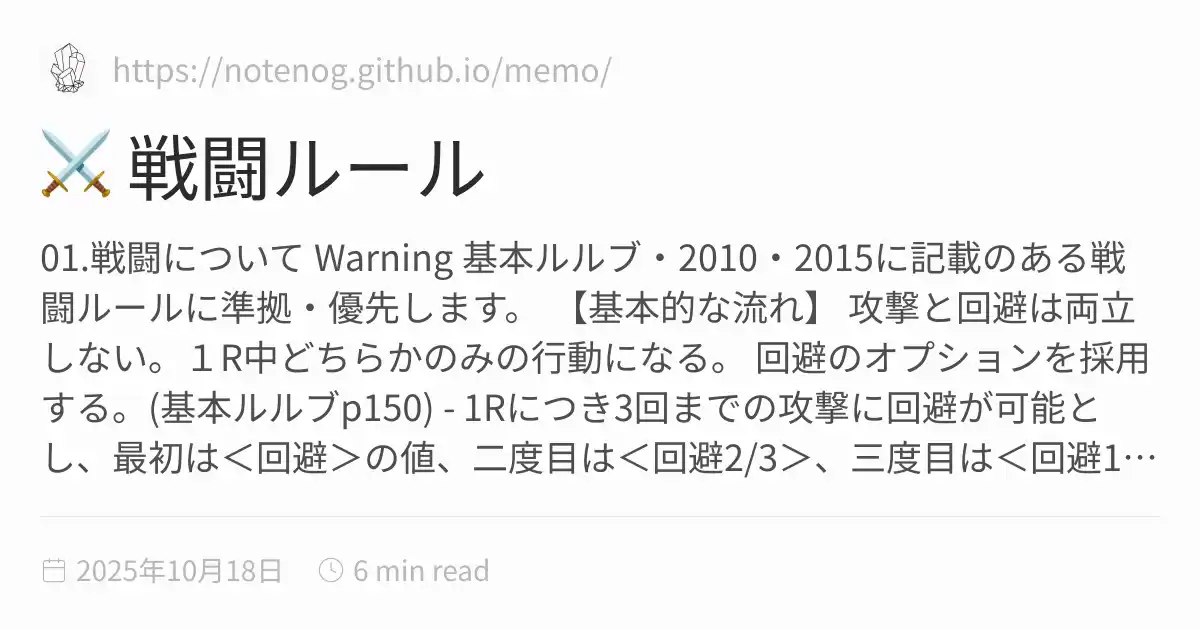
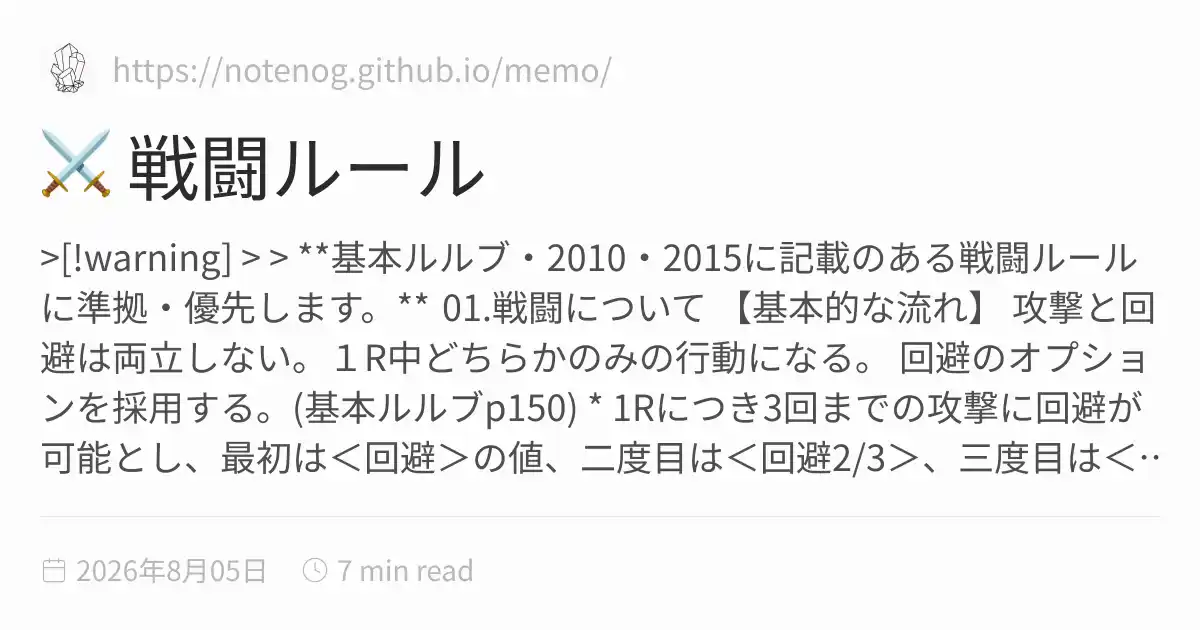
記事を更新

Changed region(s): [[0.0308, 0.5429, 0.9558, 0.754], [0.0308, 0.3619, 0.9558, 0.5127], [0.1233, 0.8746, 0.4008, 0.9349]]

diff --git a/docs/CoC/02CoC_battle.html b/docs/CoC/02CoC_battle.html
@@ -1,5 +1,5 @@
 <!DOCTYPE html>
-<html lang="ja" dir="ltr"><head><title>⚔ 戦闘ルール</title><meta charset="utf-8"/><link rel="preconnect" href="https://fonts.googleapis.com"/><link rel="preconnect" href="https://fonts.gstatic.com"/><link rel="stylesheet" href="https://fonts.googleapis.com/css2?family=Schibsted Grotesk:wght@400;700&amp;family=Noto Sans JP:ital,wght@0,400;0,600;1,400;1,600&amp;family=IBM Plex Mono:wght@400;600&amp;display=swap"/><link rel="preconnect" href="https://cdnjs.cloudflare.com" crossorigin="anonymous"/><meta name="viewport" content="width=device-width, initial-scale=1.0"/><meta name="og:site_name" content="memo"/><meta property="og:title" content="⚔ 戦闘ルール"/><meta property="og:type" content="website"/><meta name="twitter:card" content="summary_large_image"/><meta name="twitter:title" content="⚔ 戦闘ルール"/><meta name="twitter:description" content="01.戦闘について Warning 基本ルルブ・2010・2015に記載のある戦闘ルールに準拠・優先します。 【基本的な流れ】 攻撃と回避は両立しない。１R中どちらかのみの行動になる。 回避のオプションを採用する。(基本ルルブp150) - 1Rにつき3回までの攻撃に回避が可能とし、最初は＜回避＞の値、二度目は＜回避2/3＞、三度目は＜回避1/3＞の値で試みることが出来る。数値は切り上げ。 - １つの攻撃に３回回避が出来る訳ではない。一度回避に失敗した時点でダメージロールを行う。 - ただし①の通り、既に攻撃を行ってる場合回避は一度も行えない。逆も同様。 受け流しはあらゆる行動と両立する。1..."/><meta property="og:description" content="01.戦闘について Warning 基本ルルブ・2010・2015に記載のある戦闘ルールに準拠・優先します。 【基本的な流れ】 攻撃と回避は両立しない。１R中どちらかのみの行動になる。 回避のオプションを採用する。(基本ルルブp150) - 1Rにつき3回までの攻撃に回避が可能とし、最初は＜回避＞の値、二度目は＜回避2/3＞、三度目は＜回避1/3＞の値で試みることが出来る。数値は切り上げ。 - １つの攻撃に３回回避が出来る訳ではない。一度回避に失敗した時点でダメージロールを行う。 - ただし①の通り、既に攻撃を行ってる場合回避は一度も行えない。逆も同様。 受け流しはあらゆる行動と両立する。1..."/><meta property="og:image:alt" content="01.戦闘について Warning 基本ルルブ・2010・2015に記載のある戦闘ルールに準拠・優先します。 【基本的な流れ】 攻撃と回避は両立しない。１R中どちらかのみの行動になる。 回避のオプションを採用する。(基本ルルブp150) - 1Rにつき3回までの攻撃に回避が可能とし、最初は＜回避＞の値、二度目は＜回避2/3＞、三度目は＜回避1/3＞の値で試みることが出来る。数値は切り上げ。 - １つの攻撃に３回回避が出来る訳ではない。一度回避に失敗した時点でダメージロールを行う。 - ただし①の通り、既に攻撃を行ってる場合回避は一度も行えない。逆も同様。 受け流しはあらゆる行動と両立する。1..."/><meta property="twitter:domain" content="https://notenog.github.io/memo/"/><meta property="og:url" content="https://https//notenog.github.io/memo/CoC/02CoC_battle"/><meta property="twitter:url" content="https://https//notenog.github.io/memo/CoC/02CoC_battle"/><link rel="icon" href="../static/icon.png"/><meta name="description" content="01.戦闘について Warning 基本ルルブ・2010・2015に記載のある戦闘ルールに準拠・優先します。 【基本的な流れ】 攻撃と回避は両立しない。１R中どちらかのみの行動になる。 回避のオプションを採用する。(基本ルルブp150) - 1Rにつき3回までの攻撃に回避が可能とし、最初は＜回避＞の値、二度目は＜回避2/3＞、三度目は＜回避1/3＞の値で試みることが出来る。数値は切り上げ。 - １つの攻撃に３回回避が出来る訳ではない。一度回避に失敗した時点でダメージロールを行う。 - ただし①の通り、既に攻撃を行ってる場合回避は一度も行えない。逆も同様。 受け流しはあらゆる行動と両立する。1..."/><meta name="generator" content="Quartz"/><link href="../index.css" rel="stylesheet" type="text/css" spa-preserve/><style>.expand-button {
+<html lang="ja" dir="ltr"><head><title>⚔ 戦闘ルール</title><meta charset="utf-8"/><link rel="preconnect" href="https://fonts.googleapis.com"/><link rel="preconnect" href="https://fonts.gstatic.com"/><link rel="stylesheet" href="https://fonts.googleapis.com/css2?family=Schibsted Grotesk:wght@400;700&amp;family=Noto Sans JP:ital,wght@0,400;0,600;1,400;1,600&amp;family=IBM Plex Mono:wght@400;600&amp;display=swap"/><link rel="preconnect" href="https://cdnjs.cloudflare.com" crossorigin="anonymous"/><meta name="viewport" content="width=device-width, initial-scale=1.0"/><meta name="og:site_name" content="memo"/><meta property="og:title" content="⚔ 戦闘ルール"/><meta property="og:type" content="website"/><meta name="twitter:card" content="summary_large_image"/><meta name="twitter:title" content="⚔ 戦闘ルール"/><meta name="twitter:description" content=">[!warning] > > **基本ルルブ・2010・2015に記載のある戦闘ルールに準拠・優先します。** 01.戦闘について 【基本的な流れ】 攻撃と回避は両立しない。１R中どちらかのみの行動になる。 回避のオプションを採用する。(基本ルルブp150) * 1Rにつき3回までの攻撃に回避が可能とし、最初は＜回避＞の値、二度目は＜回避2/3＞、三度目は＜回避1/3＞の値で試みることが出来る。数値は切り上げ。 * １つの攻撃に３回回避が出来る訳ではない。一度回避に失敗した時点でダメージロールを行う。 * ただし①の通り、既に攻撃を行ってる場合回避は一度も行えない。逆も同..."/><meta property="og:description" content=">[!warning] > > **基本ルルブ・2010・2015に記載のある戦闘ルールに準拠・優先します。** 01.戦闘について 【基本的な流れ】 攻撃と回避は両立しない。１R中どちらかのみの行動になる。 回避のオプションを採用する。(基本ルルブp150) * 1Rにつき3回までの攻撃に回避が可能とし、最初は＜回避＞の値、二度目は＜回避2/3＞、三度目は＜回避1/3＞の値で試みることが出来る。数値は切り上げ。 * １つの攻撃に３回回避が出来る訳ではない。一度回避に失敗した時点でダメージロールを行う。 * ただし①の通り、既に攻撃を行ってる場合回避は一度も行えない。逆も同..."/><meta property="og:image:alt" content=">[!warning] > > **基本ルルブ・2010・2015に記載のある戦闘ルールに準拠・優先します。** 01.戦闘について 【基本的な流れ】 攻撃と回避は両立しない。１R中どちらかのみの行動になる。 回避のオプションを採用する。(基本ルルブp150) * 1Rにつき3回までの攻撃に回避が可能とし、最初は＜回避＞の値、二度目は＜回避2/3＞、三度目は＜回避1/3＞の値で試みることが出来る。数値は切り上げ。 * １つの攻撃に３回回避が出来る訳ではない。一度回避に失敗した時点でダメージロールを行う。 * ただし①の通り、既に攻撃を行ってる場合回避は一度も行えない。逆も同..."/><meta property="twitter:domain" content="https://notenog.github.io/memo/"/><meta property="og:url" content="https://https//notenog.github.io/memo/CoC/02CoC_battle"/><meta property="twitter:url" content="https://https//notenog.github.io/memo/CoC/02CoC_battle"/><link rel="icon" href="../static/icon.png"/><meta name="description" content=">[!warning] > > **基本ルルブ・2010・2015に記載のある戦闘ルールに準拠・優先します。** 01.戦闘について 【基本的な流れ】 攻撃と回避は両立しない。１R中どちらかのみの行動になる。 回避のオプションを採用する。(基本ルルブp150) * 1Rにつき3回までの攻撃に回避が可能とし、最初は＜回避＞の値、二度目は＜回避2/3＞、三度目は＜回避1/3＞の値で試みることが出来る。数値は切り上げ。 * １つの攻撃に３回回避が出来る訳ではない。一度回避に失敗した時点でダメージロールを行う。 * ただし①の通り、既に攻撃を行ってる場合回避は一度も行えない。逆も同..."/><meta name="generator" content="Quartz"/><link href="../index.css" rel="stylesheet" type="text/css" spa-preserve/><style>.expand-button {
   position: absolute;
   display: flex;
   float: right;
@@ -117,18 +117,10 @@ pre:hover > .expand-button {
   font-size: 14px;
 }
[1 lines of base64/hex data omitted]
+>[!warning]   
+> 
+> **基本ルルブ・2010・2015に記載のある戦闘ルールに準拠・優先します。**
 <h1 id="01戦闘について">01.戦闘について<a role="anchor" aria-hidden="true" tabindex="-1" data-no-popover="true" href="#01戦闘について" class="internal"><svg width="18" height="18" viewBox="0 0 24 24" fill="none" stroke="currentColor" stroke-width="2" stroke-linecap="round" stroke-linejoin="round"><path d="M10 13a5 5 0 0 0 7.54.54l3-3a5 5 0 0 0-7.07-7.07l-1.72 1.71"></path><path d="M14 11a5 5 0 0 0-7.54-.54l-3 3a5 5 0 0 0 7.07 7.07l1.71-1.71"></path></svg></a></h1>
-<blockquote class="callout warning" data-callout="warning">
-<div class="callout-title">
-                  <div class="callout-icon"></div>
-                  <div class="callout-title-inner"><p>Warning</p></div>
-                  
-                </div>
-<div class="callout-content">
-<p><strong>基本ルルブ・2010・2015に記載のある戦闘ルールに準拠・優先します。</strong></p>
-</div>
-</blockquote>
-<br/>
 <h3 id="基本的な流れ">【基本的な流れ】<a role="anchor" aria-hidden="true" tabindex="-1" data-no-popover="true" href="#基本的な流れ" class="internal"><svg width="18" height="18" viewBox="0 0 24 24" fill="none" stroke="currentColor" stroke-width="2" stroke-linecap="round" stroke-linejoin="round"><path d="M10 13a5 5 0 0 0 7.54.54l3-3a5 5 0 0 0-7.07-7.07l-1.72 1.71"></path><path d="M14 11a5 5 0 0 0-7.54-.54l-3 3a5 5 0 0 0 7.07 7.07l1.71-1.71"></path></svg></a></h3>
 <ul>
 <li><b>攻撃と回避は両立しない。</b>１R中どちらかのみの行動になる。</li>
@@ -136,17 +128,19 @@ pre:hover > .expand-button {
 <ul>
 <li>
 <p>回避のオプションを採用する。(基本ルルブp150)
-　- 1Rにつき3回までの攻撃に回避が可能とし、最初は＜回避＞の値、二度目は＜回避2/3＞、三度目は＜回避1/3＞の値で試みることが出来る。数値は切り上げ。
-　- １つの攻撃に３回回避が出来る訳ではない。一度回避に失敗した時点でダメージロールを行う。
-　- ただし①の通り、既に攻撃を行ってる場合回避は一度も行えない。逆も同様。</p>
+　* 1Rにつき3回までの攻撃に回避が可能とし、最初は＜回避＞の値、二度目は＜回避2/3＞、三度目は＜回避1/3＞の値で試みることが出来る。数値は切り上げ。
+　* １つの攻撃に３回回避が出来る訳ではない。一度回避に失敗した時点でダメージロールを行う。
+　* ただし①の通り、既に攻撃を行ってる場合回避は一度も行えない。逆も同様。</p>
 </li>
 <li>
-<p>受け流しはあらゆる行動と両立する。1Rに一度可能。(１R内に攻撃+受け流し、回避+受け流し　等)
-　- 攻撃を受ける直前の宣言でOK</p>
+<p>受け流しはあらゆる行動と両立する。1Rに一度可能。(１R内に攻撃+受け流し、回避+受け流し　等)</p>
 </li>
-<li>
-<p>受け流し放棄：<span class="mark1">受け流し可能武器/技能の組み合わせ時</span>に限り、受け流しを放棄してその他ロールに一度だけ+20の補正(攻撃・回避・手当専念)</p>
-</li>
+</ul>
+<ul>
+<li>攻撃を受ける直前の宣言でOK</li>
+</ul>
+<ul>
+<li>受け流し放棄：<span class="mark1">受け流し可能武器/技能の組み合わせ時</span>に限り、受け流しを放棄してその他ロールに一度だけ+20の補正(攻撃・回避・手当専念)</li>
 </ul>
 <br/>
 <h3 id="受け流し">《受け流し》<a role="anchor" aria-hidden="true" tabindex="-1" data-no-popover="true" href="#受け流し" class="internal"><svg width="18" height="18" viewBox="0 0 24 24" fill="none" stroke="currentColor" stroke-width="2" stroke-linecap="round" stroke-linejoin="round"><path d="M10 13a5 5 0 0 0 7.54.54l3-3a5 5 0 0 0-7.07-7.07l-1.72 1.71"></path><path d="M14 11a5 5 0 0 0-7.54-.54l-3 3a5 5 0 0 0 7.07 7.07l1.71-1.71"></path></svg></a></h3>
@@ -161,10 +155,12 @@ pre:hover > .expand-button {
 <p><span class="mark1">理論的に受け流すことが可能だと判断出来る攻撃手段同士での受け流し</span></p>
 </li>
 <li>
-<p>銃での受け流し：<span class="mark1">ライフル・ショットガン・サブマシンガンのみ可。</span>
-　- 耐久度を超える一撃を与えられた際に武器が破損する。
-　- 基本的に受け流しを行った際攻撃と両立させることは出来ない。</p>
+<p>銃での受け流し：<span class="mark1">ライフル・ショットガン・サブマシンガンのみ可。</span></p>
 </li>
+</ul>
+<ul>
+<li>耐久度を超える一撃を与えられた際に武器が破損する。</li>
+<li>基本的に受け流しを行った際攻撃と両立させることは出来ない。</li>
 </ul>
 <p>の3点についてはその場次第で処理を行うことがある。KPに提案を。</p>
 <br/>
@@ -172,12 +168,13 @@ pre:hover > .expand-button {
 <ul>
 <li>１Rに１度、タッチ圏内の誰かが<span class="mark1">＜回避＞か＜受け流し＞</span>を失敗した際に宣言可能。</li>
 <li>＜回避＞を行わない/行えない、あるいは＜受け流し＞が出来ない武器種の場合も自動的に失敗扱いとする。</li>
-<li>自分が行える主な行動を一つ放棄してかばう行動がとれる。
-　- 大きくは<span class="mark1">＜攻撃や回避＞の放棄、＜受け流し＞(受け流し可能な武器種のみ) 放棄</span>のどちらか。全て行動済である場合は不可。</li>
+<li>自分が行える主な行動を一つ放棄してかばう行動がとれる。</li>
+</ul>
+<ul>
+<li>大きくは<span class="mark1">＜攻撃や回避＞の放棄、＜受け流し＞(受け流し可能な武器種のみ) 放棄</span>のどちらか。全て行動済である場合は不可。</li>
 </ul>
 <blockquote>
-<p>DEX<em>5ロール成功：ダメージを全て肩代わりする。
-DEX</em>5ロール失敗：1dダメージ分をロールして数値分だけ肩代わりする。</p>
+<p>DEX<em>5ロール成功：ダメージを全て肩代わりする。<br/>DEX</em>5ロール失敗：1dダメージ分をロールして数値分だけ肩代わりする。</p>
 </blockquote>
 <br/>
 <h3 id="ディレイ">《ディレイ》<a role="anchor" aria-hidden="true" tabindex="-1" data-no-popover="true" href="#ディレイ" class="internal"><svg width="18" height="18" viewBox="0 0 24 24" fill="none" stroke="currentColor" stroke-width="2" stroke-linecap="round" stroke-linejoin="round"><path d="M10 13a5 5 0 0 0 7.54.54l3-3a5 5 0 0 0-7.07-7.07l-1.72 1.71"></path><path d="M14 11a5 5 0 0 0-7.54-.54l-3 3a5 5 0 0 0 7.07 7.07l1.71-1.71"></path></svg></a></h3>
@@ -194,13 +191,13 @@ DEX</em>5ロール失敗：1dダメージ分をロールして数値分だけ肩
 <h1 id="02戦闘について重火器">02.戦闘について：重火器<a role="anchor" aria-hidden="true" tabindex="-1" data-no-popover="true" href="#02戦闘について重火器" class="internal"><svg width="18" height="18" viewBox="0 0 24 24" fill="none" stroke="currentColor" stroke-width="2" stroke-linecap="round" stroke-linejoin="round"><path d="M10 13a5 5 0 0 0 7.54.54l3-3a5 5 0 0 0-7.07-7.07l-1.72 1.71"></path><path d="M14 11a5 5 0 0 0-7.54-.54l-3 3a5 5 0 0 0 7.07 7.07l1.71-1.71"></path></svg></a></h1>
 <h2 id="先行射撃">先行射撃<a role="anchor" aria-hidden="true" tabindex="-1" data-no-popover="true" href="#先行射撃" class="internal"><svg width="18" height="18" viewBox="0 0 24 24" fill="none" stroke="currentColor" stroke-width="2" stroke-linecap="round" stroke-linejoin="round"><path d="M10 13a5 5 0 0 0 7.54.54l3-3a5 5 0 0 0-7.07-7.07l-1.72 1.71"></path><path d="M14 11a5 5 0 0 0-7.54-.54l-3 3a5 5 0 0 0 7.07 7.07l1.71-1.71"></path></svg></a></h2>
 <ul>
-<li>「弾が入っている・銃器を手に持っている」 状態でのみ可能。</li>
+<li><span class="mark1">「弾が入っている・銃器を手に持っている」 </span>状態でのみ可能。</li>
 <li>通常R、DEX/2Rでの対象の変更は出来ない。</li>
 <li>通常Rで他の行動を取ることは出来ない。</li>
 </ul>
 <h2 id="連続射撃">連続射撃<a role="anchor" aria-hidden="true" tabindex="-1" data-no-popover="true" href="#連続射撃" class="internal"><svg width="18" height="18" viewBox="0 0 24 24" fill="none" stroke="currentColor" stroke-width="2" stroke-linecap="round" stroke-linejoin="round"><path d="M10 13a5 5 0 0 0 7.54.54l3-3a5 5 0 0 0-7.07-7.07l-1.72 1.71"></path><path d="M14 11a5 5 0 0 0-7.54-.54l-3 3a5 5 0 0 0 7.07 7.07l1.71-1.71"></path></svg></a></h2>
 <ul>
-<li>「弾が入っている・銃器を手に持っている」 状態を前提に、状況によって可能。</li>
+<li><span class="mark1">「弾が入っている・銃器を手に持っている」 </span>状態を前提に、状況によって可能。</li>
 <li>先行Rをパスして、自分の手番時に1R内の攻撃可能回数分の射撃を一度に行う。ダイスロールは攻撃回数分行う。</li>
 <li>対象の変更は不可能とする。</li>
 <li>攻撃される側は回避を成功すれば、全ての銃弾を避けた事とする。</li>
@@ -224,10 +221,33 @@ DEX</em>5ロール失敗：1dダメージ分をロールして数値分だけ肩
 <li>状況によって可能(KP要相談)</li>
 </ul>
 <br/>
-<h1 id="戦闘についてfscの処理">戦闘について：F・S・Cの処理<a role="anchor" aria-hidden="true" tabindex="-1" data-no-popover="true" href="#戦闘についてfscの処理" class="internal"><svg width="18" height="18" viewBox="0 0 24 24" fill="none" stroke="currentColor" stroke-width="2" stroke-linecap="round" stroke-linejoin="round"><path d="M10 13a5 5 0 0 0 7.54.54l3-3a5 5 0 0 0-7.07-7.07l-1.72 1.71"></path><path d="M14 11a5 5 0 0 0-7.54-.54l-3 3a5 5 0 0 0 7.07 7.07l1.71-1.71"></path></svg></a></h1>
-<ul>
-<li></li>
-<li></li>
-</ul></article><hr/><div class="page-footer"></div></div><div class="right sidebar"><div class="search"><button class="search-button"><svg role="img" xmlns="http://www.w3.org/2000/svg" viewBox="0 0 19.9 19.7"><title>Search</title><g class="search-path" fill="none"><path stroke-linecap="square" d="M18.5 18.3l-5.4-5.4"></path><circle cx="8" cy="8" r="7"></circle></g></svg><p>Search</p></button><div class="search-container"><div class="search-space"><input autocomplete="off" class="search-bar" name="search" type="text" aria-label="検索ワードを入力" placeholder="検索ワードを入力"/><div class="search-layout" data-preview="true"></div></div></div></div><div class="toc desktop-only"><button type="button" class="toc-header" aria-controls="toc-1" aria-expanded="true"><h3>📄 Contents</h3><svg xmlns="http://www.w3.org/2000/svg" width="24" height="24" viewBox="0 0 24 24" fill="none" stroke="currentColor" stroke-width="2" stroke-linecap="round" stroke-linejoin="round" class="fold"><polyline points="6 9 12 15 18 9"></polyline></svg></button><ul id="list-1" class="toc-content overflow"><li class="depth-0"><a href="#01戦闘について" data-for="01戦闘について">01.戦闘について</a></li><li class="depth-2"><a href="#基本的な流れ" data-for="基本的な流れ">【基本的な流れ】</a></li><li class="depth-2"><a href="#受け流し" data-for="受け流し">《受け流し》</a></li><li class="depth-2"><a href="#ディレイ" data-for="ディレイ">《ディレイ》</a></li><li class="depth-2"><a href="#部位狙い" data-for="部位狙い">《部位狙い》</a></li><li class="depth-0"><a href="#02戦闘について重火器" data-for="02戦闘について重火器">02.戦闘について：重火器</a></li><li class="depth-1"><a href="#先行射撃" data-for="先行射撃">先行射撃</a></li><li class="depth-1"><a href="#連続射撃" data-for="連続射撃">連続射撃</a></li><li class="depth-1"><a href="#弾の装填リロード" data-for="弾の装填リロード">弾の装填、リロード</a></li><li class="depth-1"><a href="#ゼロ距離射撃" data-for="ゼロ距離射撃">ゼロ距離射撃</a></li><li class="depth-1"><a href="#慎重な照準" data-for="慎重な照準">慎重な照準</a></li><li class="depth-1"><a href="#二丁拳銃未照準" data-for="二丁拳銃未照準">二丁拳銃/未照準</a></li><li class="depth-0"><a href="#戦闘についてfscの処理" data-for="戦闘についてfscの処理">戦闘について：F・S・Cの処理</a></li><li class="overflow-end"></li></ul></div></div><footer class><p>Created with <a href="https://quartz.jzhao.xyz/">Quartz v4.5.2</a> © 2026</p><ul><li><a href="https://discordapp.com/users/318729033737043969">@disconog</a></li></ul></footer></div></div></body><script type="application/javascript">function n(){let t=this.parentElement;t.classList.toggle("is-collapsed");let e=t.getElementsByClassName("callout-content")[0];if(!e)return;let l=t.classList.contains("is-collapsed");e.style.gridTemplateRows=l?"0fr":"1fr"}function c(){let t=document.getElementsByClassName("callout is-collapsible");for(let e of t){let l=e.getElementsByClassName("callout-title")[0],s=e.getElementsByClassName("callout-content")[0];if(!l||!s)continue;l.addEventListener("click",n),window.addCleanup(()=>l.removeEventListener("click",n));let o=e.classList.contains("is-collapsed");s.style.gridTemplateRows=o?"0fr":"1fr"}}document.addEventListener("nav",c);
+<h1 id="fscの処理">F・S・Cの処理<a role="anchor" aria-hidden="true" tabindex="-1" data-no-popover="true" href="#fscの処理" class="internal"><svg width="18" height="18" viewBox="0 0 24 24" fill="none" stroke="currentColor" stroke-width="2" stroke-linecap="round" stroke-linejoin="round"><path d="M10 13a5 5 0 0 0 7.54.54l3-3a5 5 0 0 0-7.07-7.07l-1.72 1.71"></path><path d="M14 11a5 5 0 0 0-7.54-.54l-3 3a5 5 0 0 0 7.07 7.07l1.71-1.71"></path></svg></a></h1>
+<h3 id="攻撃時の効果">《攻撃時の効果》<a role="anchor" aria-hidden="true" tabindex="-1" data-no-popover="true" href="#攻撃時の効果" class="internal"><svg width="18" height="18" viewBox="0 0 24 24" fill="none" stroke="currentColor" stroke-width="2" stroke-linecap="round" stroke-linejoin="round"><path d="M10 13a5 5 0 0 0 7.54.54l3-3a5 5 0 0 0-7.07-7.07l-1.72 1.71"></path><path d="M14 11a5 5 0 0 0-7.54-.54l-3 3a5 5 0 0 0 7.07 7.07l1.71-1.71"></path></svg></a></h3>
+<p>効果を都度KPから提示する。記載以外の効果もある。</p>
+<blockquote>
+<p>1C～C ▶ 攻撃必中、ダメージ２倍、相手は次のRスタン、武器の取り落とし　など</p>
+</blockquote>
+<blockquote>
+<p>S ▶ 貫通可能武器での貫通、相手の回避・受け流し/2　など</p>
+</blockquote>
+<blockquote>
+<p>F ▶ １Rのスタン(攻撃不可/回避・受け流し可)</p>
+</blockquote>
+<blockquote>
+<p>100F ▶ １Rの転倒(回避・受け流し/2)+転倒によるダメージ　など</p>
+</blockquote>
+<h3 id="回避受け流しでの効果">《回避/受け流しでの効果》<a role="anchor" aria-hidden="true" tabindex="-1" data-no-popover="true" href="#回避受け流しでの効果" class="internal"><svg width="18" height="18" viewBox="0 0 24 24" fill="none" stroke="currentColor" stroke-width="2" stroke-linecap="round" stroke-linejoin="round"><path d="M10 13a5 5 0 0 0 7.54.54l3-3a5 5 0 0 0-7.07-7.07l-1.72 1.71"></path><path d="M14 11a5 5 0 0 0-7.54-.54l-3 3a5 5 0 0 0 7.07 7.07l1.71-1.71"></path></svg></a></h3>
+<blockquote>
+<p>１C～C ▶ カウンター攻撃、攻撃必中、装甲無視　など</p>
+</blockquote>
+<blockquote>
+<p>S ▶ 成長ロール時に+1</p>
+</blockquote>
+<blockquote>
+<p>F ▶ １Rのスタン(攻撃不可/回避・受け流し可)</p>
+</blockquote>
+<blockquote>
+<p>100F ▶ １Rの転倒(回避・受け流し/2)+転倒によるダメージ　など</p>
+</blockquote></article><hr/><div class="page-footer"></div></div><div class="right sidebar"><div class="search"><button class="search-button"><svg role="img" xmlns="http://www.w3.org/2000/svg" viewBox="0 0 19.9 19.7"><title>Search</title><g class="search-path" fill="none"><path stroke-linecap="square" d="M18.5 18.3l-5.4-5.4"></path><circle cx="8" cy="8" r="7"></circle></g></svg><p>Search</p></button><div class="search-container"><div class="search-space"><input autocomplete="off" class="search-bar" name="search" type="text" aria-label="検索ワードを入力" placeholder="検索ワードを入力"/><div class="search-layout" data-preview="true"></div></div></div></div><div class="toc desktop-only"><button type="button" class="toc-header" aria-controls="toc-1" aria-expanded="true"><h3>📄 Contents</h3><svg xmlns="http://www.w3.org/2000/svg" width="24" height="24" viewBox="0 0 24 24" fill="none" stroke="currentColor" stroke-width="2" stroke-linecap="round" stroke-linejoin="round" class="fold"><polyline points="6 9 12 15 18 9"></polyline></svg></button><ul id="list-1" class="toc-content overflow"><li class="depth-0"><a href="#01戦闘について" data-for="01戦闘について">01.戦闘について</a></li><li class="depth-2"><a href="#基本的な流れ" data-for="基本的な流れ">【基本的な流れ】</a></li><li class="depth-2"><a href="#受け流し" data-for="受け流し">《受け流し》</a></li><li class="depth-2"><a href="#ディレイ" data-for="ディレイ">《ディレイ》</a></li><li class="depth-2"><a href="#部位狙い" data-for="部位狙い">《部位狙い》</a></li><li class="depth-0"><a href="#02戦闘について重火器" data-for="02戦闘について重火器">02.戦闘について：重火器</a></li><li class="depth-1"><a href="#先行射撃" data-for="先行射撃">先行射撃</a></li><li class="depth-1"><a href="#連続射撃" data-for="連続射撃">連続射撃</a></li><li class="depth-1"><a href="#弾の装填リロード" data-for="弾の装填リロード">弾の装填、リロード</a></li><li class="depth-1"><a href="#ゼロ距離射撃" data-for="ゼロ距離射撃">ゼロ距離射撃</a></li><li class="depth-1"><a href="#慎重な照準" data-for="慎重な照準">慎重な照準</a></li><li class="depth-1"><a href="#二丁拳銃未照準" data-for="二丁拳銃未照準">二丁拳銃/未照準</a></li><li class="depth-0"><a href="#fscの処理" data-for="fscの処理">F・S・Cの処理</a></li><li class="depth-2"><a href="#攻撃時の効果" data-for="攻撃時の効果">《攻撃時の効果》</a></li><li class="depth-2"><a href="#回避受け流しでの効果" data-for="回避受け流しでの効果">《回避/受け流しでの効果》</a></li><li class="overflow-end"></li></ul></div></div><footer class><p>Created with <a href="https://quartz.jzhao.xyz/">Quartz v4.5.2</a> © 2026</p><ul><li><a href="https://discordapp.com/users/318729033737043969">@disconog</a></li></ul></footer></div></div></body><script type="application/javascript">function n(){let t=this.parentElement;t.classList.toggle("is-collapsed");let e=t.getElementsByClassName("callout-content")[0];if(!e)return;let l=t.classList.contains("is-collapsed");e.style.gridTemplateRows=l?"0fr":"1fr"}function c(){let t=document.getElementsByClassName("callout is-collapsible");for(let e of t){let l=e.getElementsByClassName("callout-title")[0],s=e.getElementsByClassName("callout-content")[0];if(!l||!s)continue;l.addEventListener("click",n),window.addCleanup(()=>l.removeEventListener("click",n));let o=e.classList.contains("is-collapsed");s.style.gridTemplateRows=o?"0fr":"1fr"}}document.addEventListener("nav",c);
 </script><script type="module">function f(i,e){if(!i)return;function r(o){o.target===this&&(o.preventDefault(),o.stopPropagation(),e())}function t(o){o.key.startsWith("Esc")&&(o.preventDefault(),e())}i?.addEventListener("click",r),window.addCleanup(()=>i?.removeEventListener("click",r)),document.addEventListener("keydown",t),window.addCleanup(()=>document.removeEventListener("keydown",t))}function y(i){for(;i.firstChild;)i.removeChild(i.firstChild)}var h=class{constructor(e,r){this.container=e;this.content=r;this.setupEventListeners(),this.setupNavigationControls(),this.resetTransform()}isDragging=!1;startPan={x:0,y:0};currentPan={x:0,y:0};scale=1;MIN_SCALE=.5;MAX_SCALE=3;cleanups=[];setupEventListeners(){let e=this.onMouseDown.bind(this),r=this.onMouseMove.bind(this),t=this.onMouseUp.bind(this),o=this.resetTransform.bind(this);this.container.addEventListener("mousedown",e),document.addEventListener("mousemove",r),document.addEventListener("mouseup",t),window.addEventListener("resize",o),this.cleanups.push(()=>this.container.removeEventListener("mousedown",e),()=>document.removeEventListener("mousemove",r),()=>document.removeEventListener("mouseup",t),()=>window.removeEventListener("resize",o))}cleanup(){for(let e of this.cleanups)e()}setupNavigationControls(){let e=document.createElement("div");e.className="mermaid-controls";let r=this.createButton("+",()=>this.zoom(.1)),t=this.createButton("-",()=>this.zoom(-.1)),o=this.createButton("Reset",()=>this.resetTransform());e.appendChild(t),e.appendChild(o),e.appendChild(r),this.container.appendChild(e)}createButton(e,r){let t=document.createElement("button");return t.textContent=e,t.className="mermaid-control-button",t.addEventListener("click",r),window.addCleanup(()=>t.removeEventListener("click",r)),t}onMouseDown(e){e.button===0&&(this.isDragging=!0,this.startPan={x:e.clientX-this.currentPan.x,y:e.clientY-this.currentPan.y},this.container.style.cursor="grabbing")}onMouseMove(e){this.isDragging&&(e.preventDefault(),this.currentPan={x:e.clientX-this.startPan.x,y:e.clientY-this.startPan.y},this.updateTransform())}onMouseUp(){this.isDragging=!1,this.container.style.cursor="grab"}zoom(e){let r=Math.min(Math.max(this.scale+e,this.MIN_SCALE),this.MAX_SCALE),t=this.content.getBoundingClientRect(),o=t.width/2,n=t.height/2,c=r-this.scale;this.currentPan.x-=o*c,this.currentPan.y-=n*c,this.scale=r,this.updateTransform()}updateTransform(){this.content.style.transform=`translate(${this.currentPan.x}px, ${this.currentPan.y}px) scale(${this.scale})`}resetTransform(){this.scale=1;let e=this.content.querySelector("svg");this.currentPan={x:e.getBoundingClientRect().width/2,y:e.getBoundingClientRect().height/2},this.updateTransform()}},C=["--secondary","--tertiary","--gray","--light","--lightgray","--highlight","--dark","--darkgray","--codeFont"],E;document.addEventListener("nav",async()=>{let e=document.querySelector(".center").querySelectorAll("code.mermaid");if(e.length===0)return;E||=await import("https://cdnjs.cloudflare.com/ajax/libs/mermaid/11.4.0/mermaid.esm.min.mjs");let r=E.default,t=new WeakMap;for(let n of e)t.set(n,n.innerText);async function o(){for(let s of e){s.removeAttribute("data-processed");let a=t.get(s);a&&(s.innerHTML=a)}let n=C.reduce((s,a)=>(s[a]=window.getComputedStyle(document.documentElement).getPropertyValue(a),s),{}),c=document.documentElement.getAttribute("saved-theme")==="dark";r.initialize({startOnLoad:!1,securityLevel:"loose",theme:c?"dark":"base",themeVariables:{fontFamily:n["--codeFont"],primaryColor:n["--light"],primaryTextColor:n["--darkgray"],primaryBorderColor:n["--tertiary"],lineColor:n["--darkgray"],secondaryColor:n["--secondary"],tertiaryColor:n["--tertiary"],clusterBkg:n["--light"],edgeLabelBackground:n["--highlight"]}}),await r.run({nodes:e})}await o(),document.addEventListener("themechange",o),window.addCleanup(()=>document.removeEventListener("themechange",o));for(let n=0;n<e.length;n++){let v=function(){let g=l.querySelector("#mermaid-space"),m=l.querySelector(".mermaid-content");if(!m)return;y(m);let w=c.querySelector("svg").cloneNode(!0);m.appendChild(w),l.classList.add("active"),g.style.cursor="grab",u=new h(g,m)},M=function(){l.classList.remove("active"),u?.cleanup(),u=null},c=e[n],s=c.parentElement,a=s.querySelector(".clipboard-button"),d=s.querySelector(".expand-button"),p=window.getComputedStyle(a),L=a.offsetWidth+parseFloat(p.marginLeft||"0")+parseFloat(p.marginRight||"0");d.style.right=`calc(${L}px + 0.3rem)`,s.prepend(d);let l=s.querySelector("#mermaid-container");if(!l)return;let u=null;d.addEventListener("click",v),f(l,M),window.addCleanup(()=>{u?.cleanup(),d.removeEventListener("click",v)})}});
 </script><script src="https://cdn.jsdelivr.net/npm/katex@0.16.11/dist/contrib/copy-tex.min.js" type="application/javascript"></script><script src="../postscript.js" type="module"></script></html>

diff --git a/docs/CoC/index.html b/docs/CoC/index.html
@@ -116,6 +116,6 @@ pre:hover > .expand-button {
   padding: 0 12px;
   font-size: 14px;
 }
[2 lines of base64/hex data omitted]
 </script><script type="module">function f(i,e){if(!i)return;function r(o){o.target===this&&(o.preventDefault(),o.stopPropagation(),e())}function t(o){o.key.startsWith("Esc")&&(o.preventDefault(),e())}i?.addEventListener("click",r),window.addCleanup(()=>i?.removeEventListener("click",r)),document.addEventListener("keydown",t),window.addCleanup(()=>document.removeEventListener("keydown",t))}function y(i){for(;i.firstChild;)i.removeChild(i.firstChild)}var h=class{constructor(e,r){this.container=e;this.content=r;this.setupEventListeners(),this.setupNavigationControls(),this.resetTransform()}isDragging=!1;startPan={x:0,y:0};currentPan={x:0,y:0};scale=1;MIN_SCALE=.5;MAX_SCALE=3;cleanups=[];setupEventListeners(){let e=this.onMouseDown.bind(this),r=this.onMouseMove.bind(this),t=this.onMouseUp.bind(this),o=this.resetTransform.bind(this);this.container.addEventListener("mousedown",e),document.addEventListener("mousemove",r),document.addEventListener("mouseup",t),window.addEventListener("resize",o),this.cleanups.push(()=>this.container.removeEventListener("mousedown",e),()=>document.removeEventListener("mousemove",r),()=>document.removeEventListener("mouseup",t),()=>window.removeEventListener("resize",o))}cleanup(){for(let e of this.cleanups)e()}setupNavigationControls(){let e=document.createElement("div");e.className="mermaid-controls";let r=this.createButton("+",()=>this.zoom(.1)),t=this.createButton("-",()=>this.zoom(-.1)),o=this.createButton("Reset",()=>this.resetTransform());e.appendChild(t),e.appendChild(o),e.appendChild(r),this.container.appendChild(e)}createButton(e,r){let t=document.createElement("button");return t.textContent=e,t.className="mermaid-control-button",t.addEventListener("click",r),window.addCleanup(()=>t.removeEventListener("click",r)),t}onMouseDown(e){e.button===0&&(this.isDragging=!0,this.startPan={x:e.clientX-this.currentPan.x,y:e.clientY-this.currentPan.y},this.container.style.cursor="grabbing")}onMouseMove(e){this.isDragging&&(e.preventDefault(),this.currentPan={x:e.clientX-this.startPan.x,y:e.clientY-this.startPan.y},this.updateTransform())}onMouseUp(){this.isDragging=!1,this.container.style.cursor="grab"}zoom(e){let r=Math.min(Math.max(this.scale+e,this.MIN_SCALE),this.MAX_SCALE),t=this.content.getBoundingClientRect(),o=t.width/2,n=t.height/2,c=r-this.scale;this.currentPan.x-=o*c,this.currentPan.y-=n*c,this.scale=r,this.updateTransform()}updateTransform(){this.content.style.transform=`translate(${this.currentPan.x}px, ${this.currentPan.y}px) scale(${this.scale})`}resetTransform(){this.scale=1;let e=this.content.querySelector("svg");this.currentPan={x:e.getBoundingClientRect().width/2,y:e.getBoundingClientRect().height/2},this.updateTransform()}},C=["--secondary","--tertiary","--gray","--light","--lightgray","--highlight","--dark","--darkgray","--codeFont"],E;document.addEventListener("nav",async()=>{let e=document.querySelector(".center").querySelectorAll("code.mermaid");if(e.length===0)return;E||=await import("https://cdnjs.cloudflare.com/ajax/libs/mermaid/11.4.0/mermaid.esm.min.mjs");let r=E.default,t=new WeakMap;for(let n of e)t.set(n,n.innerText);async function o(){for(let s of e){s.removeAttribute("data-processed");let a=t.get(s);a&&(s.innerHTML=a)}let n=C.reduce((s,a)=>(s[a]=window.getComputedStyle(document.documentElement).getPropertyValue(a),s),{}),c=document.documentElement.getAttribute("saved-theme")==="dark";r.initialize({startOnLoad:!1,securityLevel:"loose",theme:c?"dark":"base",themeVariables:{fontFamily:n["--codeFont"],primaryColor:n["--light"],primaryTextColor:n["--darkgray"],primaryBorderColor:n["--tertiary"],lineColor:n["--darkgray"],secondaryColor:n["--secondary"],tertiaryColor:n["--tertiary"],clusterBkg:n["--light"],edgeLabelBackground:n["--highlight"]}}),await r.run({nodes:e})}await o(),document.addEventListener("themechange",o),window.addCleanup(()=>document.removeEventListener("themechange",o));for(let n=0;n<e.length;n++){let v=function(){let g=l.querySelector("#mermaid-space"),m=l.querySelector(".mermaid-content");if(!m)return;y(m);let w=c.querySelector("svg").cloneNode(!0);m.appendChild(w),l.classList.add("active"),g.style.cursor="grab",u=new h(g,m)},M=function(){l.classList.remove("active"),u?.cleanup(),u=null},c=e[n],s=c.parentElement,a=s.querySelector(".clipboard-button"),d=s.querySelector(".expand-button"),p=window.getComputedStyle(a),L=a.offsetWidth+parseFloat(p.marginLeft||"0")+parseFloat(p.marginRight||"0");d.style.right=`calc(${L}px + 0.3rem)`,s.prepend(d);let l=s.querySelector("#mermaid-container");if(!l)return;let u=null;d.addEventListener("click",v),f(l,M),window.addCleanup(()=>{u?.cleanup(),d.removeEventListener("click",v)})}});
 </script><script src="https://cdn.jsdelivr.net/npm/katex@0.16.11/dist/contrib/copy-tex.min.js" type="application/javascript"></script><script src="../postscript.js" type="module"></script></html>
